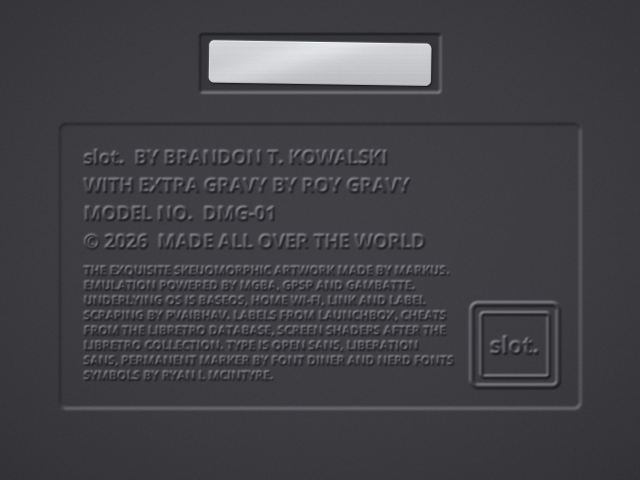
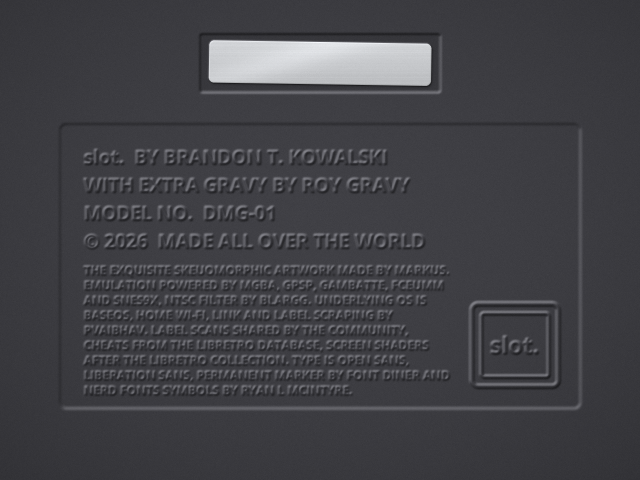
About: credit FCEUmm, Snes9x and Blargg's NTSC filter, no source names on screen; larger Super Game Boy in the cart studio
Claude-Session: https://claude.ai/code/session_016chw1madQ51pkyQGgnbyR8

Changed region(s): [[0.125, 0.5625, 0.6875, 0.8125], [0.6562, 0.5625, 0.6875, 0.5938]]

diff --git a/crates/slot-ui/src/shell_picker.rs b/crates/slot-ui/src/shell_picker.rs
@@ -18,6 +18,12 @@ const SWATCH_MORE: f32 = 0.35;
 const CART_TOP: f32 = 30.0;
 const CART_MAX_W: f32 = 250.0;
 const CART_MAX_H: f32 = 200.0;
+/// The Super Game Boy has only its model row, so its cart takes the room the others' rows use,
+/// up to its size on the shelf.
+const SGB_CART_MAX_W: f32 = 400.0;
+const SGB_CART_MAX_H: f32 = 330.0;
+/// How far under the Super Game Boy its model row stands.
+const SGB_MODEL_GAP: f32 = 34.0;
 const NAME_Y: f32 = 248.0;
 const SWATCH_Y: f32 = 290.0;
 const FINISH_Y: f32 = 324.0;
@@ -105,6 +111,8 @@ pub struct ShellPickerView<'a> {
     pub confirming: bool,
     /// Y searches for the label by name.
     pub search: bool,
+    /// The Super Game Boy: no rows but its model's, and the cart drawn larger for it.
+    pub sgb: bool,
 }
 
 #[derive(Copy, Clone, PartialEq, Eq, Debug)]
@@ -233,7 +241,15 @@ pub fn draw_shell_picker(canvas: Canvas, v: &ShellPickerView, out: &mut Vec<Draw
     });
 
     let (cw, ch) = (v.cart_box.0 as f32, v.cart_box.1 as f32);
-    let scale = (CART_MAX_W / cw).min(CART_MAX_H / ch);
+    let (max_w, max_h) = match v.sgb {
+        true => (SGB_CART_MAX_W, SGB_CART_MAX_H),
+        false => (CART_MAX_W, CART_MAX_H),
+    };
+    let mut scale = (max_w / cw).min(max_h / ch);
+    if v.sgb {
+        // Never larger than it stands on the shelf (Roy).
+        scale = scale.min(v.from.w / cw);
+    }
     let to = Placed {
         x: canvas.centred(cw * scale),
         y: CART_TOP,
@@ -457,7 +473,7 @@ pub fn draw_shell_picker(canvas: Canvas, v: &ShellPickerView, out: &mut Vec<Draw
                 &v.faces.models[first..first + count],
                 Some(model),
                 v.row == PickerRow::Model,
-                MODEL_Y + drop,
+                if v.sgb { (to.y + to.h + SGB_MODEL_GAP).round() } else { MODEL_Y + drop },
                 FINISH_GAP,
                 stage(2.5),
                 out,

diff --git a/tools/about_art.py b/tools/about_art.py
@@ -29,11 +29,11 @@ BIG = [
 ]
 BIG_PX, BIG_STEP = 19, 28
 SMALL = (
-    "THE EXQUISITE SKEUOMORPHIC ARTWORK MADE BY MARKUS. EMULATION POWERED BY MGBA, GPSP "
-    "AND GAMBATTE. UNDERLYING OS IS BASEOS, HOME WI-FI, LINK AND LABEL SCRAPING BY PVAIBHAV. "
-    "LABELS FROM LAUNCHBOX, CHEATS FROM THE LIBRETRO DATABASE, SCREEN SHADERS AFTER THE "
-    "LIBRETRO COLLECTION. TYPE IS OPEN SANS, LIBERATION SANS, PERMANENT MARKER BY FONT DINER "
-    "AND NERD FONTS SYMBOLS BY RYAN L MCINTYRE."
+    "THE EXQUISITE SKEUOMORPHIC ARTWORK MADE BY MARKUS. EMULATION POWERED BY MGBA, GPSP, "
+    "GAMBATTE, FCEUMM AND SNES9X, NTSC FILTER BY BLARGG. UNDERLYING OS IS BASEOS, HOME WI-FI, "
+    "LINK AND LABEL SCRAPING BY PVAIBHAV. LABEL SCANS SHARED BY THE COMMUNITY, CHEATS FROM THE "
+    "LIBRETRO DATABASE, SCREEN SHADERS AFTER THE LIBRETRO COLLECTION. TYPE IS OPEN SANS, "
+    "LIBERATION SANS, PERMANENT MARKER BY FONT DINER AND NERD FONTS SYMBOLS BY RYAN L MCINTYRE."
 )
 SMALL_PX, SMALL_STEP, SMALL_W = 12, 15, 372
 

diff --git a/crates/slot/src/app.rs b/crates/slot/src/app.rs
@@ -5977,6 +5977,7 @@ impl App {
             remove: picker.offers_remove(),
             search: picker.offers_search(),
             confirming: picker.confirming(),
+            sgb: picker.sgb(),
         };
         slot_ui::draw_shell_picker(self.canvas(), &view, out);
     }
